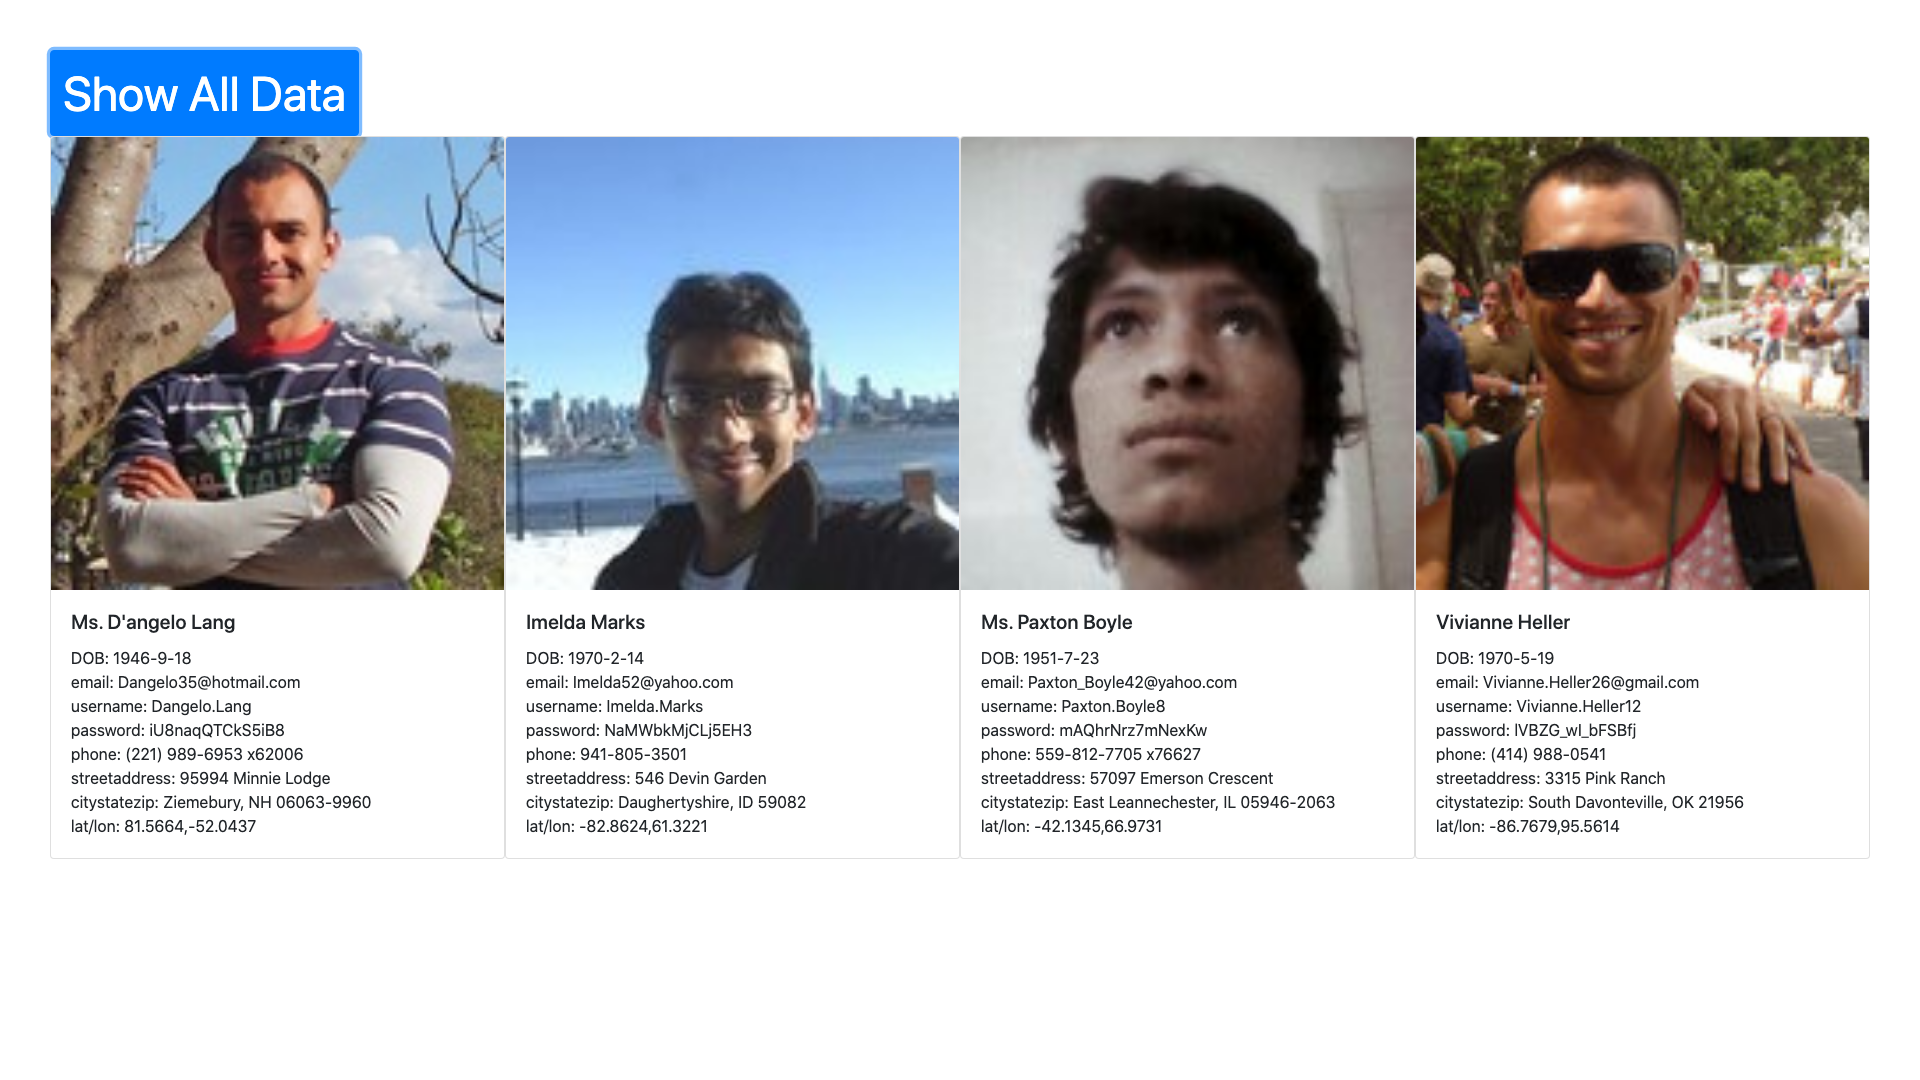
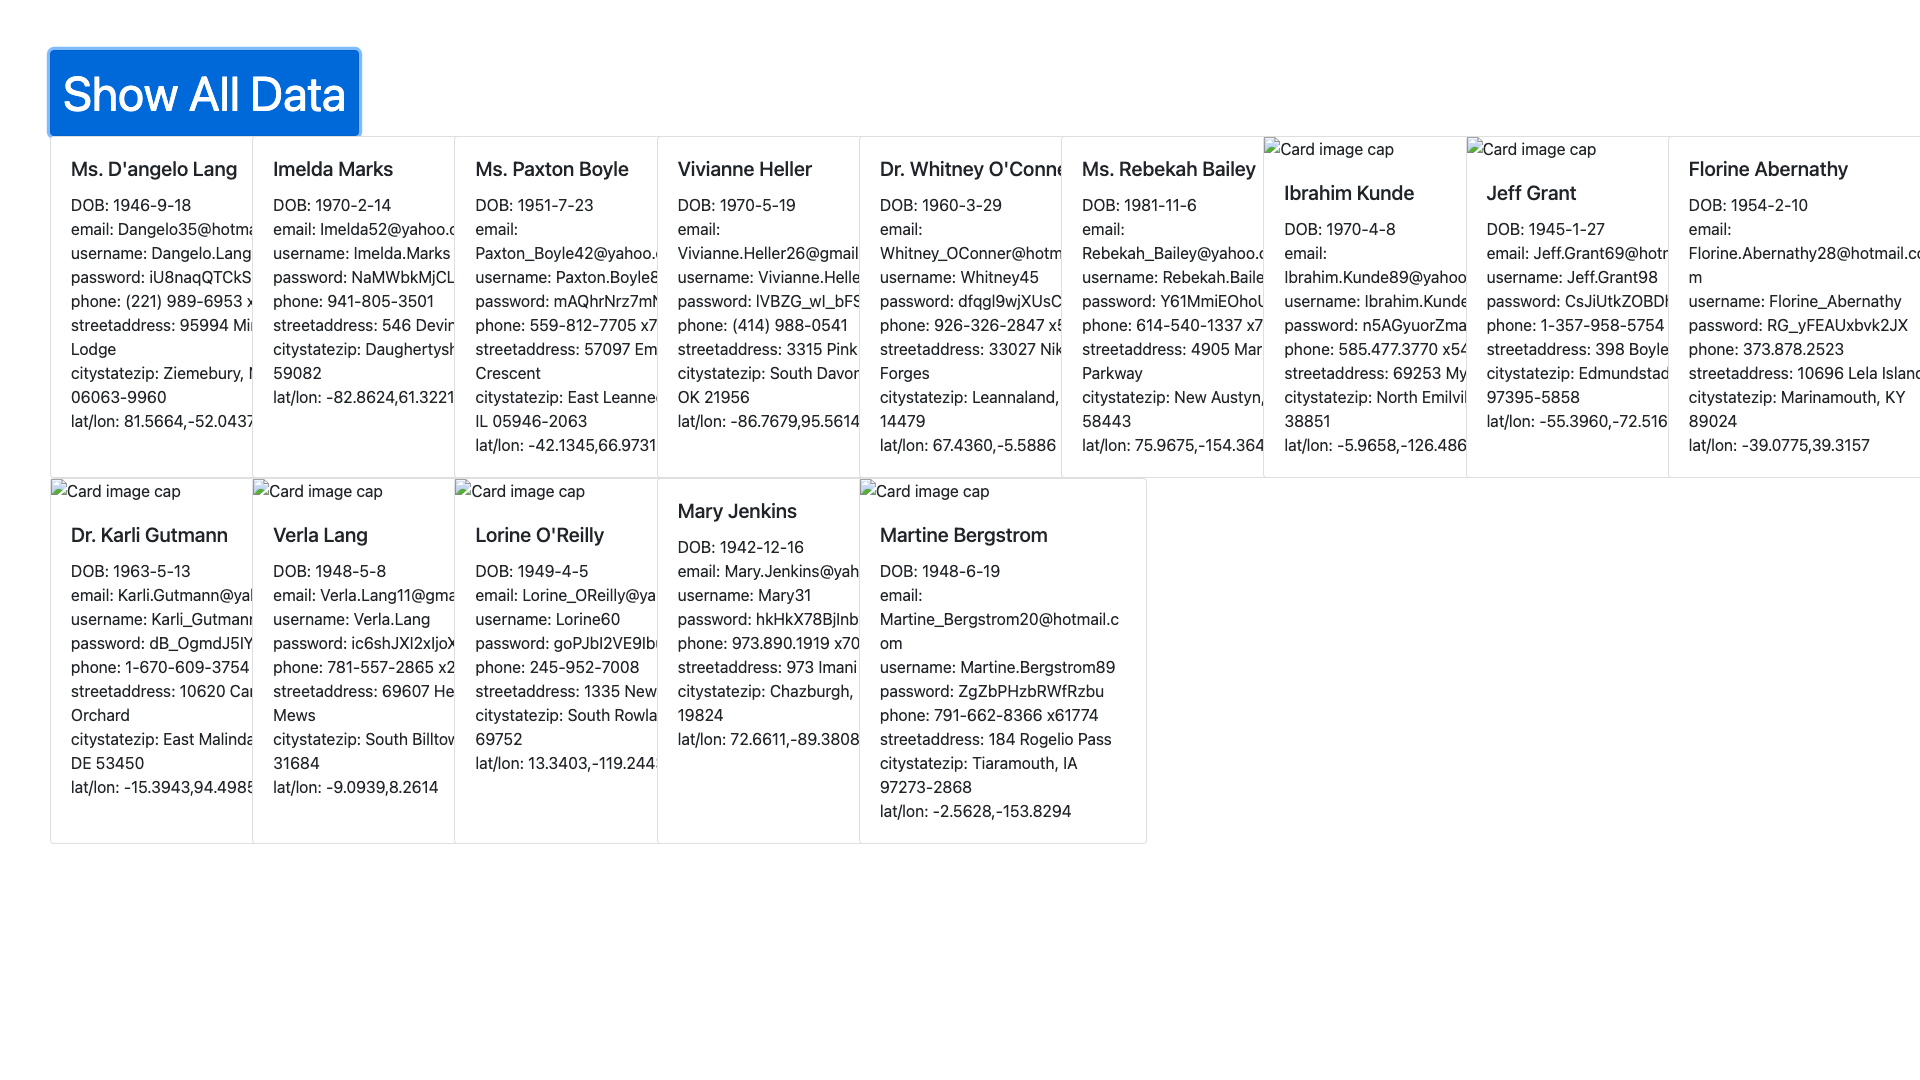
puppeteer tests included

diff --git a/public/allUsers.html b/public/allUsers.html
@@ -1,36 +1,44 @@
 <!DOCTYPE html>
 <html>
-<!-- libraries & styles -->
-<link rel="stylesheet" href="https://stackpath.bootstrapcdn.com/bootstrap/4.1.3/css/bootstrap.min.css">
-<script src="https://cdnjs.cloudflare.com/ajax/libs/superagent/3.8.3/superagent.min.js"></script>
-<link rel="stylesheet" href="styles.css">
+  <!-- libraries & styles -->
+  <link
+    rel="stylesheet"
+    href="https://stackpath.bootstrapcdn.com/bootstrap/4.1.3/css/bootstrap.min.css"
+  />
+  <script src="https://cdnjs.cloudflare.com/ajax/libs/superagent/3.8.3/superagent.min.js"></script>
+  <link rel="stylesheet" href="styles.css" />
 
-<!-- user interface -->
-<body>
-    <div style="padding:50px">    
-        <button type="button" class="btn btn-primary" style="font-size: 3em;" onclick="data()" id="showAllData">Show All Data</button><br>
-        <div id="status"></div>        
+  <!-- user interface -->
+  <body>
+    <div style="padding: 50px">
+      <button
+        type="button"
+        class="btn btn-primary"
+        style="font-size: 3em"
+        onclick="data()"
+        id="showAllData"
+      >
+        Show All Data</button
+      ><br />
+      <div id="status"></div>
     </div>
-</body>
+  </body>
 
-<script>
-// query server and list users
-function data() {
-    const status  = document.getElementById('status');
-    const url = '/data';
-    let html = '';
+  <script>
+    // query server and list users
+    function data() {
+      const status = document.getElementById("status");
+      const url = "/data";
+      let html = "";
 
-    superagent
-        .get(url)
-        .end(function(err,res){
-            if(err){
-                console.log(err);
-            }
-            else{
-                console.log(res);
-                html = '<div class="grid-container">';
-                res.body.forEach(user => {                    
-                    html += `
+      superagent.get(url).end(function (err, res) {
+        if (err) {
+          console.log(err);
+        } else {
+          console.log(res);
+          html = '<div class="grid-container">';
+          res.body.forEach((user) => {
+            html += `
                         <div class="card" style="min-width: 18rem;">
                         <img class="card-img-top" src="${user.avatar}" alt="Card image cap">
                         <div class="card-body">
@@ -48,12 +56,11 @@ function data() {
                         </div>
                         </div>
                     `;
-                })
-                html += '</div">';
-                status.innerHTML = html;
-            }
-        });
-}
-
-</script>
+          });
+          html += '</div">';
+          status.innerHTML = html;
+        }
+      });
+    }
+  </script>
 </html>

diff --git a/puppeteer.js b/puppeteer.js
@@ -1,0 +1,23 @@
+const puppeteer = require("puppeteer");
+
+(async () => {
+  try {
+    const browser = await puppeteer.launch();
+    const page = await browser.newPage();
+    await page.setViewport({ width: 1920, height: 1080 });
+    await page.goto("http://localhost:3000/addUser.html");
+    await page.click("#addUser");
+    await page.goto("http://localhost:3000/data.html");
+    await page.click("#showAllData");
+    await page.waitForSelector("#status:not(:empty)");
+    let status = await page.$("#status");
+    console.log(await status.evaluate((node) => node.innerHTML));
+    await page.goto("http://localhost:3000/allUsers.html");
+    await page.click("#showAllData");
+    await page.waitForSelector("#status:not(:empty)");
+    await page.screenshot({ path: "screen.png" });
+    browser.close();
+  } catch (e) {
+    console.log(e);
+  }
+})();

diff --git a/http_server.js b/http_server.js
@@ -70,9 +70,9 @@ app.post("/addCompany", function (req, res) {
 
 // start server
 // -----------------------
-// app.listen(3000, function () {
-//   console.log("Running on port 3000!");
-// });
+app.listen(3000, function () {
+  console.log("Running on port 3000!");
+});
 
 // export app for testing
 module.exports = app;
